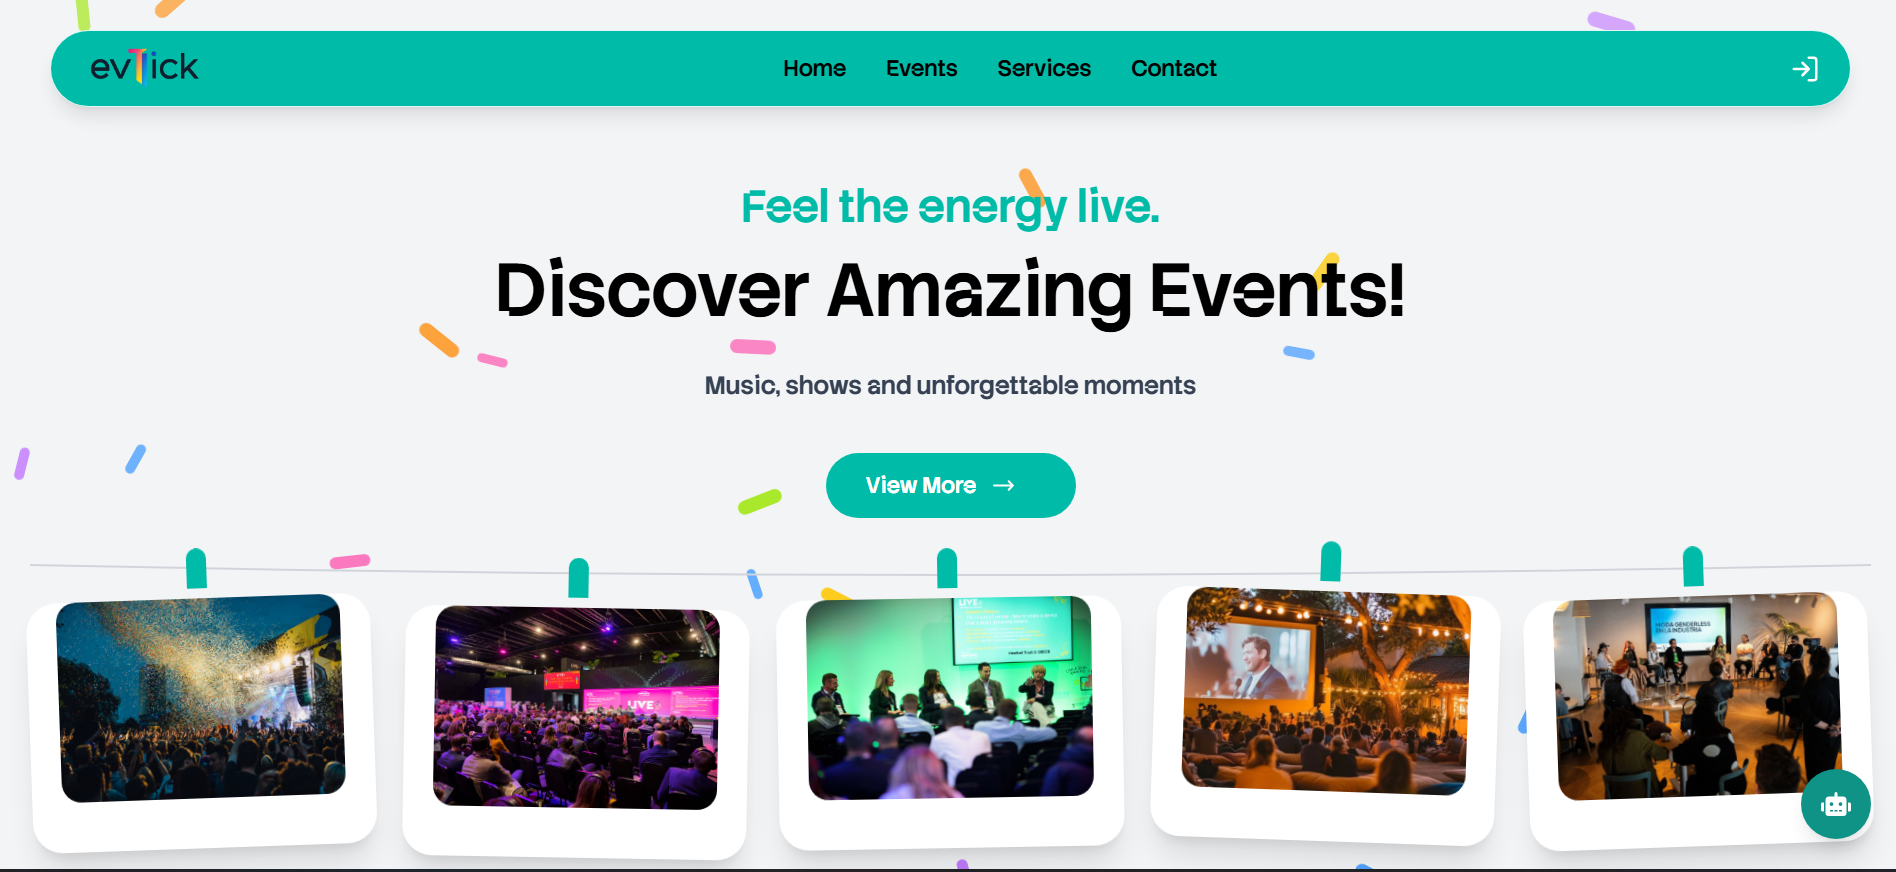
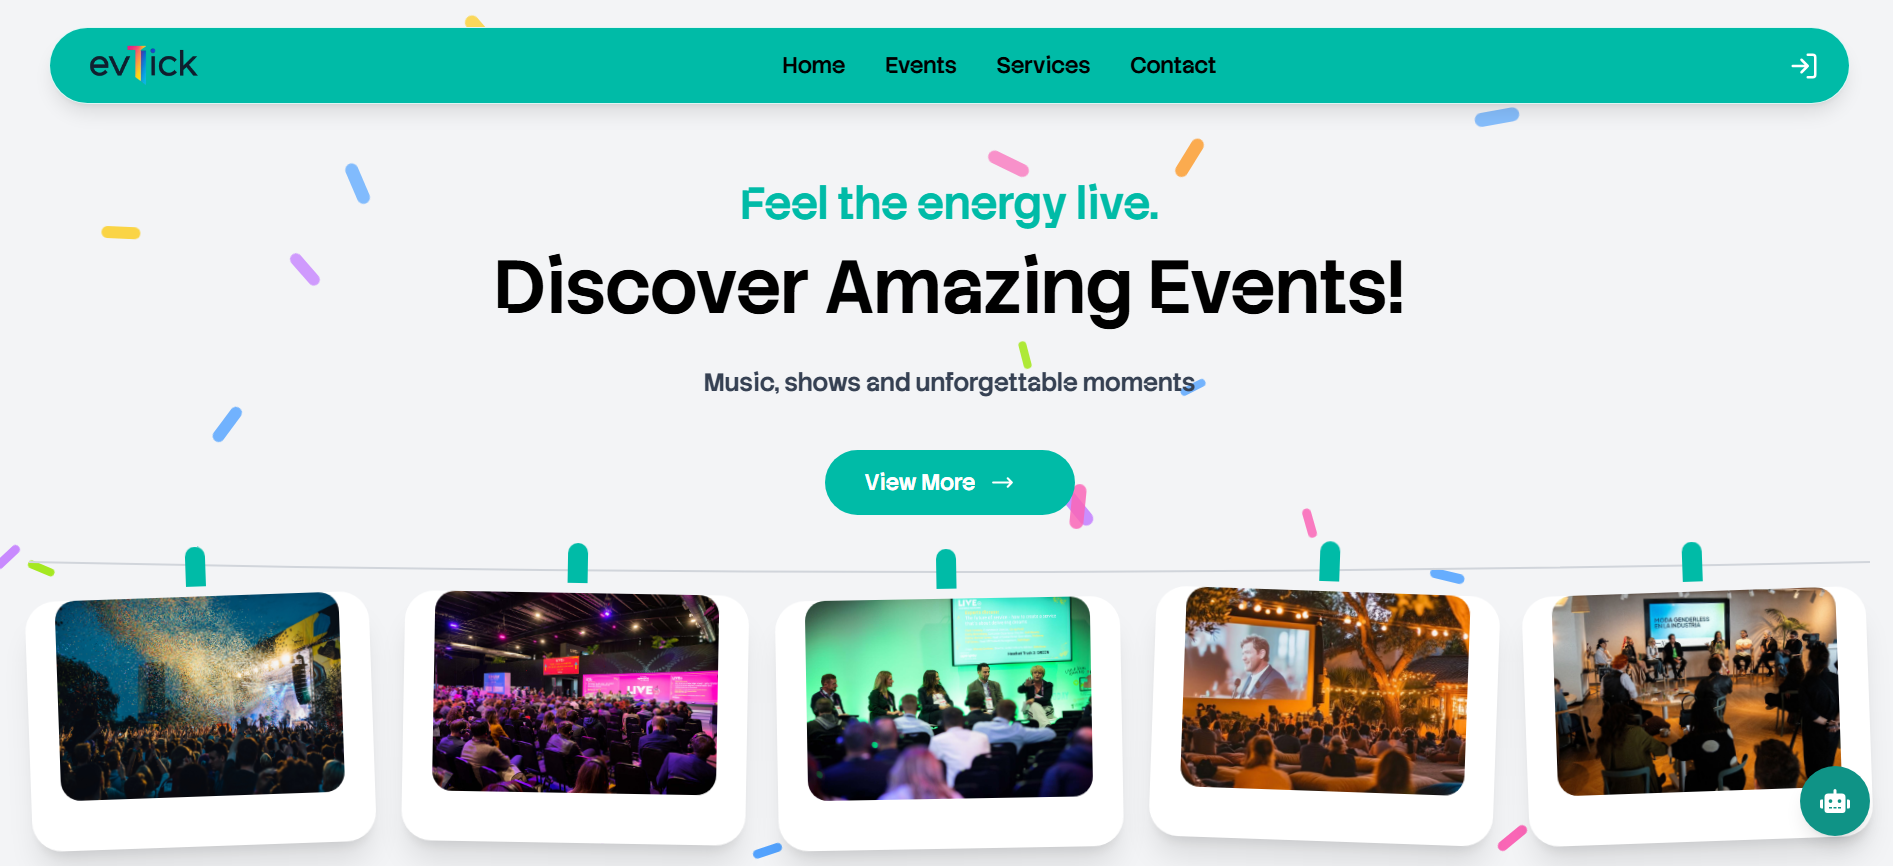
add RIWAK-G5 project

diff --git a/src/features/portfolio/components/ProjectsDetails/ProjectMediaUpper.tsx b/src/features/portfolio/components/ProjectsDetails/ProjectMediaUpper.tsx
@@ -1,8 +1,14 @@
-import { Maximize2 } from "lucide-react";
+import { Maximize2, Play } from "lucide-react";
+import { useState } from "react";
 
 const isEmbedUrl = (url?: string) => {
     if (!url) return false;
-    return url.includes("embed") || url.includes("youtube.com") || url.includes("vimeo.com") || url.includes("cloudinary.com");
+    return (
+        url.includes("embed") ||
+        url.includes("youtube.com") ||
+        url.includes("vimeo.com") ||
+        url.includes("cloudinary.com")
+    );
 };
 
 interface ProjectMediaUpperProps {
@@ -18,25 +24,51 @@ interface ProjectMediaUpperProps {
     handleOpenLightbox: (imageUrl: string) => void;
 }
 
-const ProjectMediaUpper = ({ project, selectedMedia, handleOpenLightbox }: ProjectMediaUpperProps) => {
-    // const bgClass = selectedMedia.type === "video" ? "bg-black" : "bg-background";
+const ProjectMediaUpper = ({
+    project,
+    selectedMedia,
+    handleOpenLightbox,
+}: ProjectMediaUpperProps) => {
+    const [playingUrl, setPlayingUrl] = useState<string | null>(null);
 
     return (
-        <div className={`relative aspect-video w-full overflow-hidden bg-black/40 rounded-lg shadow-lg flex items-center justify-center `}>
+        <div className="relative aspect-video w-full overflow-hidden rounded-lg bg-black/40 shadow-lg flex items-center justify-center">
             {selectedMedia.type === "video" ? (
                 isEmbedUrl(selectedMedia.url) ? (
-                    <iframe
-                        src={selectedMedia.url}
-                        title={`${project.title} Video`}
-                        className="h-full w-full border-none"
-                        allow="accelerometer; autoplay; clipboard-write; encrypted-media; gyroscope; picture-in-picture"
-                        allowFullScreen
+                    playingUrl === selectedMedia.url ? (
+                        <iframe
+                            src={`${selectedMedia.url}${selectedMedia.url.includes("?") ? "&" : "?"
+                                }autoplay=1`}
+                            title={`${project.title} Video`}
+                            className="h-full w-full border-none"
+                            allow="accelerometer; autoplay; clipboard-write; encrypted-media; gyroscope; picture-in-picture"
+                            allowFullScreen
+                        />
+                    ) : (
+                        <button
+                            type="button"
+                            onClick={() => setPlayingUrl(selectedMedia.url)}
+                            className="relative h-full w-full group"
+                        >
+                            <img
+                                src={project.image}
+                                alt={`${project.title} Preview`}
+                                className="h-full w-full object-cover"
+                            />
 
-                    />
+                            <div className="absolute inset-0 flex items-center justify-center bg-black/40 transition-colors group-hover:bg-black/50">
+                                <div className="flex h-15 w-15 items-center justify-center rounded-full bg-white/90 shadow-lg transition-transform group-hover:scale-110">
+                                    <Play
+                                        className="ml-1 h-8 w-8 fill-current cursor-pointer text-primary"
+                                    />
+                                </div>
+                            </div>
+                        </button>
+                    )
                 ) : (
                     <video
                         controls
-                        poster={project.image || "/images/projects/moheet/dashboard.jpeg"}
+                        poster={project.image}
                         className="h-full w-full object-cover"
                     >
                         <source src={selectedMedia.url} type="video/mp4" />
@@ -44,7 +76,7 @@ const ProjectMediaUpper = ({ project, selectedMedia, handleOpenLightbox }: Proje
                 )
             ) : (
                 <div
-                    className="relative w-full h-full group cursor-zoom-in"
+                    className="group relative h-full w-full cursor-zoom-in"
                     onClick={() => handleOpenLightbox(selectedMedia.url)}
                 >
                     <img
@@ -52,10 +84,13 @@ const ProjectMediaUpper = ({ project, selectedMedia, handleOpenLightbox }: Proje
                         alt={project.title}
                         className="h-full w-full object-contain transition-transform duration-500 group-hover:scale-105"
                     />
-                    <div className="absolute inset-0 bg-black/35 opacity-0 group-hover:opacity-100 transition-opacity duration-300 flex items-center justify-center text-white">
+
+                    <div className="absolute inset-0 flex items-center justify-center bg-black/35 opacity-0 transition-opacity duration-300 group-hover:opacity-100 text-white">
                         <div className="flex flex-col items-center gap-2">
                             <Maximize2 size={24} className="animate-pulse" />
-                            <span className="text-xs font-semibold uppercase tracking-wider">Click to Zoom</span>
+                            <span className="text-xs font-semibold uppercase tracking-wider">
+                                Click to Zoom
+                            </span>
                         </div>
                     </div>
                 </div>

diff --git a/src/features/portfolio/components/Projects/ProjectCard.tsx b/src/features/portfolio/components/Projects/ProjectCard.tsx
@@ -30,7 +30,7 @@ const ProjectCard = ({ project }: Props) => {
 
             {/* Description */}
 
-            <div className="flex items-center justify-between p-4 bg-bg-box rounded-t-2xl">
+            <div className="flex items-center justify-between p-4 bg-bg-box ">
 
                 <div>
 
